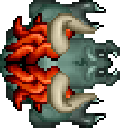
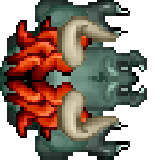
renamed some graphics and added standing

diff --git a/src/shared/lists/EntityList.java b/src/shared/lists/EntityList.java
@@ -77,13 +77,13 @@ public enum EntityList {
      * Enemy standing
      */
     ZOMBIE("file:assets/img/entity/enemy/zombie.png", Constants.zombieColorAdjust, Constants.TILE_SIZE),
-    RUNNER("file:assets/img/entity/enemy/zombie.png", Constants.TILE_SIZE),
-    SOLDIER("file:assets/img/entity/enemy/zombie.png", Constants.soldierColorAdjust, Constants.TILE_SIZE),
-    MIDGET("file:assets/img/entity/enemy/zombie.png", Constants.midgetColorAdjust, Constants.TILE_SIZE),
-    BOOMER("file:assets/img/entity/enemy/zombie.png", Constants.zombieColorAdjust, Constants.TILE_SIZE),
-    MACHINE_GUNNER("file:assets/img/entity/enemy/zombie.png", Constants.machineGunnerColorAdjust, Constants.TILE_SIZE),
-    SNIPER("file:assets/img/entity/enemy/zombie.png", Constants.machineGunnerColorAdjust, Constants.TILE_SIZE),
-    THEBOSS ("file:assets/img/entity/enemy/zombie.png", Constants.machineGunnerColorAdjust, Constants.TILE_SIZE * 5),
+    RUNNER("file:assets/img/entity/enemy/runner.png", Constants.TILE_SIZE),
+    SOLDIER("file:assets/img/entity/enemy/soldier.png", 34),
+    MIDGET("file:assets/img/entity/enemy/midget.png", 24),
+    BOOMER("file:assets/img/entity/enemy/boomer.png", 40),
+    MACHINE_GUNNER("file:assets/img/entity/enemy/soldier.png", Constants.machineGunnerColorAdjust, 34),
+    SNIPER("file:assets/img/entity/enemy/sniper.png"),
+    THEBOSS("file:assets/img/entity/enemy/boss.png", Constants.TILE_SIZE * 5),
 
     /**
      * Enemy walking
@@ -108,7 +108,7 @@ public enum EntityList {
     ROCKET("file:assets/img/entity/projectile/rocket.png", 6),
     PHANTOM_BULLET("file:assets/img/entity/projectile/phantom_bullet.png", 6),
     STICKY_BULLET("file:assets/img/entity/projectile/sticky_bullet.png", 6),
-    
+
 
     /**
      * Tiles
